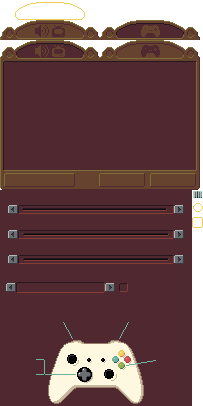
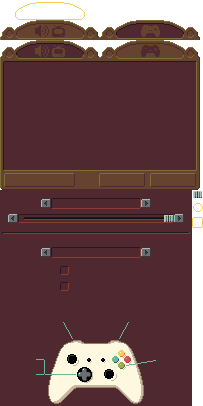
increase menu trees gamepad shoulder buttons cycle options menu tab

Changed region(s): [[0.0, 0.4729, 0.9458, 0.7389], [0.5025, 0.6798, 0.5616, 0.7389], [0.0296, 0.6798, 0.0887, 0.7389]]

diff --git a/samples/golf/src/golf/OptionsState.cpp b/samples/golf/src/golf/OptionsState.cpp
@@ -1,6 +1,6 @@
 /*-----------------------------------------------------------------------
 
-Matt Marchant 2021
+Matt Marchant 2021 - 2022
 http://trederia.blogspot.com
 
 crogine application - Zlib license.
@@ -144,6 +144,7 @@ OptionsState::OptionsState(cro::StateStack& ss, cro::State::Context ctx, SharedS
     m_updatingKeybind   (false),
     m_lastMousePos      (0.f),
     m_bindingIndex      (-1),
+    m_currentTabFunction(1),
     m_viewScale         (2.f)
 {
     ctx.mainWindow.setMouseCaptured(false);
@@ -220,9 +221,12 @@ bool OptionsState::handleEvent(const cro::Event& evt)
     }
     else if (evt.type == SDL_CONTROLLERBUTTONUP)
     {
-        if (evt.cbutton.which == cro::GameController::deviceID(0)
-            && evt.cbutton.button == cro::GameController::ButtonB)
+        if (evt.cbutton.which == cro::GameController::deviceID(0))
         {
+        
+        switch (evt.cbutton.button)
+        {
+        case cro::GameController::ButtonB:
             if (!m_updatingKeybind)
             {
                 quitState();
@@ -232,7 +236,16 @@ bool OptionsState::handleEvent(const cro::Event& evt)
                 updateKeybind(SDLK_ESCAPE);
             }
             return false;
+        case cro::GameController::ButtonLeftShoulder:
+        case cro::GameController::ButtonRightShoulder:
+            if (!m_updatingKeybind)
+            {
+                m_tabFunctions[m_currentTabFunction]();
+                m_currentTabFunction = (m_currentTabFunction + 1) % 2;
+            }
+            break;
         }
+    }
     }
     else if (evt.type == SDL_MOUSEBUTTONDOWN)
     {
@@ -611,6 +624,20 @@ void OptionsState::buildScene()
     unselectedID = uiSystem.addCallback([](cro::Entity e) {e.getComponent<cro::Sprite>().setColour(cro::Colour::Transparent); });
 
     //tab button to switch to video
+    m_tabFunctions[0] = [&, tabEnt, videoButtonEnt, controlButtonEnt]() mutable
+    {
+        tabEnt.getComponent<cro::Callback>().active = true;
+        controlButtonEnt.getComponent<cro::Transform>().move(glm::vec2(-10000.f));
+
+        //reset position for video button ent
+        videoButtonEnt.getComponent<cro::Transform>().setPosition(glm::vec2(0.f));
+
+        //set the active group to a dummy until animation is complete
+        uiSystem.setActiveGroup(MenuID::Dummy);
+
+        m_audioEnts[AudioID::Accept].getComponent<cro::AudioEmitter>().play();
+    };
+
     entity = m_scene.createEntity();
     entity.addComponent<cro::Transform>().setPosition(glm::vec3(0.f, 130.f, 0.2f));
     entity.addComponent<cro::AudioEmitter>() = m_menuSounds.getEmitter("switch");
@@ -622,23 +649,29 @@ void OptionsState::buildScene()
     entity.getComponent<cro::UIInput>().callbacks[cro::UIInput::Selected] = selectedID;
     entity.getComponent<cro::UIInput>().callbacks[cro::UIInput::Unselected] = unselectedID;
     entity.getComponent<cro::UIInput>().callbacks[cro::UIInput::ButtonDown] = uiSystem.addCallback(
-        [&, tabEnt, videoButtonEnt, controlButtonEnt](cro::Entity e, cro::ButtonEvent evt)  mutable
+        [&](cro::Entity e, cro::ButtonEvent evt)
     {
             if (activated(evt))
             {
-                tabEnt.getComponent<cro::Callback>().active = true;
-                controlButtonEnt.getComponent<cro::Transform>().move(glm::vec2(-10000.f));
-
-                //reset position for video button ent
-                videoButtonEnt.getComponent<cro::Transform>().setPosition(glm::vec2(0.f));
-
-                //set the active group to a dummy until animation is complete
-                uiSystem.setActiveGroup(MenuID::Dummy);
-
-                m_audioEnts[AudioID::Accept].getComponent<cro::AudioEmitter>().play();
+                m_tabFunctions[0]();
+                m_currentTabFunction = 1;
             }
     });
     controlButtonEnt.getComponent<cro::Transform>().addChild(entity.getComponent<cro::Transform>());
+
+    m_tabFunctions[1] = [&, tabEnt, videoButtonEnt, controlButtonEnt]() mutable
+    {
+        tabEnt.getComponent<cro::Callback>().active = true;
+        videoButtonEnt.getComponent<cro::Transform>().move(glm::vec2(-10000.f));
+
+        //reset position for control button ent
+        controlButtonEnt.getComponent<cro::Transform>().setPosition(glm::vec2(0.f));
+
+        //set the active group to a dummy until animation is complete
+        uiSystem.setActiveGroup(MenuID::Dummy);
+
+        m_audioEnts[AudioID::Back].getComponent<cro::AudioEmitter>().play();
+    };
 
     //tab button to switch to controls
     entity = m_scene.createEntity();
@@ -652,20 +685,12 @@ void OptionsState::buildScene()
     entity.getComponent<cro::UIInput>().callbacks[cro::UIInput::Selected] = selectedID;
     entity.getComponent<cro::UIInput>().callbacks[cro::UIInput::Unselected] = unselectedID;
     entity.getComponent<cro::UIInput>().callbacks[cro::UIInput::ButtonDown] = uiSystem.addCallback(
-        [&, tabEnt, videoButtonEnt, controlButtonEnt](cro::Entity e, cro::ButtonEvent evt)  mutable
+        [&](cro::Entity e, cro::ButtonEvent evt)  mutable
         {
             if (activated(evt))
             {
-                tabEnt.getComponent<cro::Callback>().active = true;
-                videoButtonEnt.getComponent<cro::Transform>().move(glm::vec2(-10000.f));
-
-                //reset position for control button ent
-                controlButtonEnt.getComponent<cro::Transform>().setPosition(glm::vec2(0.f));
-
-                //set the active group to a dummy until animation is complete
-                uiSystem.setActiveGroup(MenuID::Dummy);
-
-                m_audioEnts[AudioID::Back].getComponent<cro::AudioEmitter>().play();
+                m_tabFunctions[1]();
+                m_currentTabFunction = 0;
             }
         });
     videoButtonEnt.getComponent<cro::Transform>().addChild(entity.getComponent<cro::Transform>());

diff --git a/samples/golf/src/golf/MenuState.cpp b/samples/golf/src/golf/MenuState.cpp
@@ -571,10 +571,10 @@ void MenuState::createScene()
 
         auto& collection = entity.getComponent<cro::BillboardCollection>();
 
-        auto trees = pd::PoissonDiskSampling(4.8f, minBounds, maxBounds);
+        auto trees = pd::PoissonDiskSampling(2.8f, minBounds, maxBounds);
         for (auto [x, y] : trees)
         {
-            float scale = static_cast<float>(cro::Util::Random::value(8, 12)) / 10.f;
+            float scale = static_cast<float>(cro::Util::Random::value(12, 22)) / 10.f;
 
             auto bb = m_billboardTemplates[cro::Util::Random::value(BillboardID::Tree01, BillboardID::Tree04)];
             bb.position = { x, 0.f, -y };

diff --git a/samples/golf/src/golf/OptionsState.hpp b/samples/golf/src/golf/OptionsState.hpp
@@ -1,6 +1,6 @@
 /*-----------------------------------------------------------------------
 
-Matt Marchant 2021
+Matt Marchant 2021 - 2022
 http://trederia.blogspot.com
 
 crogine application - Zlib license.
@@ -88,6 +88,9 @@ private:
 
     std::int32_t m_bindingIndex;
     void updateKeybind(SDL_Keycode);
+
+    std::array<std::function<void()>, 2u> m_tabFunctions = {};
+    std::size_t m_currentTabFunction;
 
     glm::vec2 m_viewScale;
     cro::Entity m_rootNode;

diff --git a/crogine/src/core/App.cpp b/crogine/src/core/App.cpp
@@ -55,7 +55,7 @@ source distribution.
 
 #include <algorithm>
 
-#define DEBUG_NO_CONTROLLER
+//#define DEBUG_NO_CONTROLLER
 
 using namespace cro;
 
